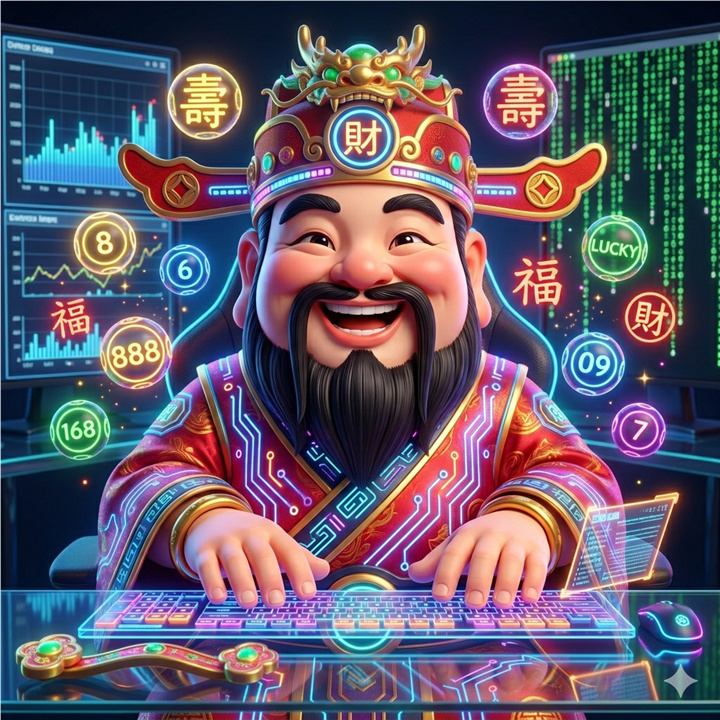
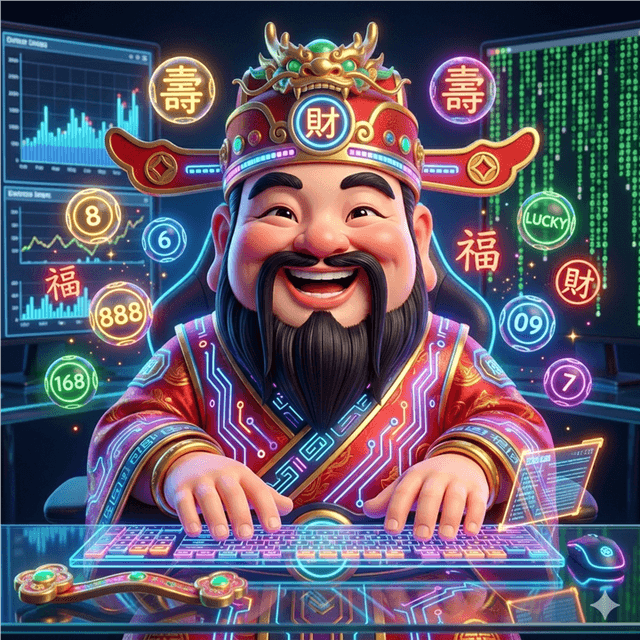
perf+rwd: 財神圖 1.51MB→WebP 91KB(hero)/PNG 200KB(OG) + 修手機版 header
- sharp 壓縮:hero/頭像改 WebP、OG 保留壓縮 PNG(LINE相容)
- 手機 header:遊戲連結桌機才顯示、logo 縮小不換行、按鈕 whitespace-nowrap 不再錯位、LINE頂列精簡

diff --git a/app/layout.tsx b/app/layout.tsx
@@ -49,7 +49,7 @@ export const metadata: Metadata = {
     siteName: "808888.tw",
     title: shareTitle,
     description: shareDesc,
-    images: [{ url: "/caishen.png", width: 1024, height: 1024, alt: "808888 賽博財神爺" }],
+    images: [{ url: "/caishen.png", width: 640, height: 640, alt: "808888 賽博財神爺" }],
   },
   twitter: {
     card: "summary_large_image",
@@ -63,10 +63,10 @@ function Header() {
   return (
     <header className="sticky top-0 z-50 border-b border-[var(--border)] bg-[rgba(8,11,16,0.8)] backdrop-blur-md">
       <div className="mx-auto flex max-w-6xl items-center justify-between px-5 py-3">
-        <Link href="/" className="flex items-center gap-2">
+        <Link href="/" className="flex min-w-0 shrink items-center gap-2">
           <span className="relative block h-9 w-9 shrink-0 overflow-hidden rounded-full ring-1 ring-[rgba(0,240,255,0.3)]">
             <Image
-              src={`${basePath}/caishen.png`}
+              src={`${basePath}/caishen.webp`}
               alt="808888 財神爺"
               width={64}
               height={64}
@@ -74,16 +74,16 @@ function Header() {
               style={{ marginTop: "-4%" }}
             />
           </span>
-          <span className="font-display text-2xl font-extrabold tracking-wide text-gradient">808888.tw</span>
-          <span className="ml-1 hidden rounded-full border border-[rgba(255,42,95,0.5)] bg-[rgba(255,42,95,0.12)] px-3 py-1 text-base font-extrabold text-[var(--hot)] shadow-[0_0_16px_rgba(255,42,95,0.35)] sm:inline">
+          <span className="whitespace-nowrap font-display text-lg font-extrabold tracking-wide text-gradient sm:text-2xl">808888.tw</span>
+          <span className="ml-1 hidden rounded-full border border-[rgba(255,42,95,0.5)] bg-[rgba(255,42,95,0.12)] px-3 py-1 text-base font-extrabold text-[var(--hot)] shadow-[0_0_16px_rgba(255,42,95,0.35)] lg:inline">
             幫您發發發發
           </span>
         </Link>
-        <nav className="flex items-center gap-1 text-sm sm:gap-4">
-          <Link href="/games/daily539" className="px-2 py-1 text-[var(--muted)] hover:text-[var(--neon)]">今彩539</Link>
+        <nav className="flex shrink-0 items-center gap-2 text-sm sm:gap-4">
+          <Link href="/games/daily539" className="hidden px-2 py-1 text-[var(--muted)] hover:text-[var(--neon)] sm:inline">今彩539</Link>
           <Link href="/games/lotto649" className="hidden px-2 py-1 text-[var(--muted)] hover:text-[var(--neon)] sm:inline">大樂透</Link>
           <Link href="/games/superLotto638" className="hidden px-2 py-1 text-[var(--muted)] hover:text-[var(--neon)] sm:inline">威力彩</Link>
-          <Link href="/pricing" className="btn-primary !px-4 !py-1.5 text-sm">訂閱方案</Link>
+          <Link href="/pricing" className="btn-primary shrink-0 whitespace-nowrap !px-3 !py-1.5 text-sm sm:!px-4">訂閱方案</Link>
           <AuthNav />
         </nav>
       </div>
@@ -154,9 +154,9 @@ export default function RootLayout({ children }: Readonly<{ children: React.Reac
           href={LINE_ADD_URL}
           target="_blank"
           rel="noopener noreferrer"
-          className="block bg-[#06C755] px-4 py-1.5 text-center text-[13px] font-bold text-white transition hover:brightness-110 sm:text-sm"
+          className="block bg-[#06C755] px-3 py-1.5 text-center text-[12px] font-bold text-white transition hover:brightness-110 sm:text-sm"
         >
-          🟢 官方 LINE <span className="underline underline-offset-2">@808888.tw</span>　點我加好友，每日開獎前報你一手 →
+          🟢 加官方 LINE <span className="underline underline-offset-2">@808888.tw</span> 好友<span className="hidden sm:inline">，每日開獎前報你一手</span> →
         </a>
         <Header />
         <main className="flex-1">{children}</main>

diff --git a/components/AuthNav.tsx b/components/AuthNav.tsx
@@ -29,7 +29,7 @@ export function AuthNav() {
     return (
       <a
         href="/auth/line/login"
-        className="inline-flex items-center gap-1.5 rounded-full bg-[#06C755] px-4 py-1.5 text-sm font-bold text-white transition hover:brightness-110"
+        className="inline-flex shrink-0 items-center gap-1.5 whitespace-nowrap rounded-full bg-[#06C755] px-3 py-1.5 text-sm font-bold text-white transition hover:brightness-110 sm:px-4"
       >
         <span className="font-black">LINE</span> 登入
       </a>
@@ -37,7 +37,7 @@ export function AuthNav() {
   }
 
   return (
-    <a href="/member/" className="flex items-center gap-2" title="會員專區">
+    <a href="/member/" className="flex shrink-0 items-center gap-2" title="會員專區">
       {me.picture ? (
         <img
           src={me.picture}

diff --git a/app/page.tsx b/app/page.tsx
@@ -36,7 +36,7 @@ export default async function Home() {
           </span>
           <div className="mx-auto mb-6 w-fit">
             <Image
-              src={`${basePath}/caishen.png`}
+              src={`${basePath}/caishen.webp`}
               alt="808888 賽博財神爺 · AI 老師傅"
               width={360}
               height={360}